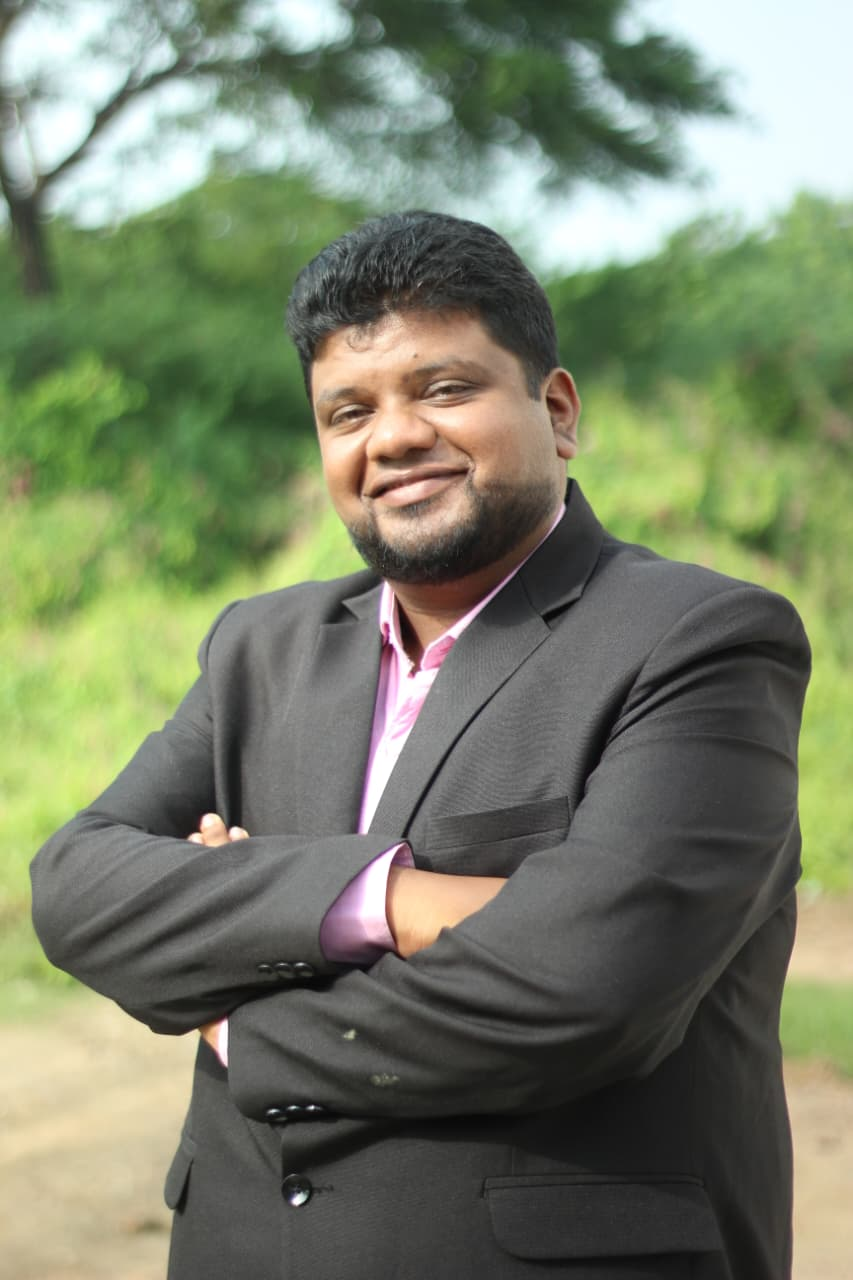
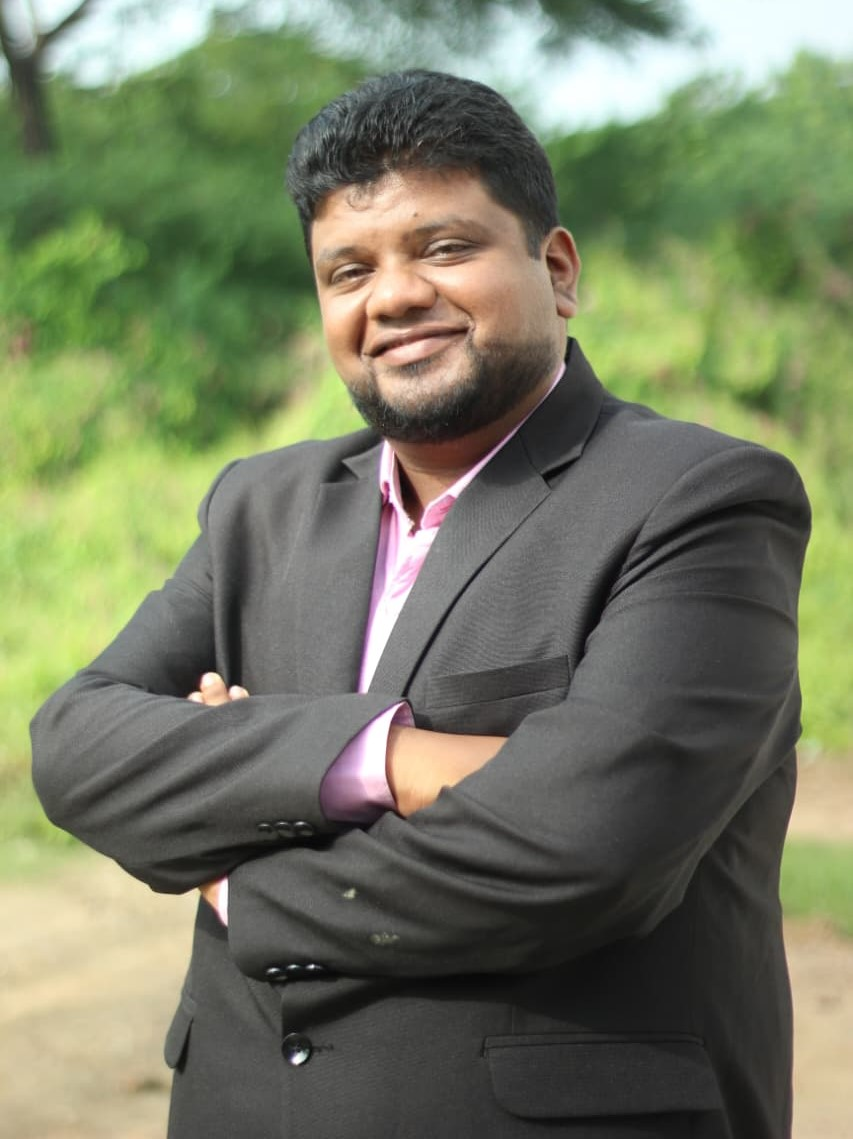
changes

diff --git a/src/pages/About.jsx b/src/pages/About.jsx
@@ -20,7 +20,7 @@ import remali from "../assets/remali.jpg";
 import larsen from "../assets/Larsen.jpg";
 import hycinth from "../assets/hycinth.jpg";
 import jabez from "../assets/jabez.jpg";
-import bhuvi from "../assets/bhuvi.jpg";
+import bhuvi from "../assets/bhuvi.png";
 const About = () => {
   // State for animations
   const [hoveredValue, setHoveredValue] = useState(null);
@@ -156,71 +156,72 @@ const About = () => {
 
   // Team members data
   const teamMembers = [
-  {
-    id: 1,
-    name: "Sam Giftson",
-    title: "Founder & CEO",
-    image: sam,
-    bio: "Former educator with 15 years of experience in teaching and school administration. Leading the vision to transform educational technology.",
-    accent: "emerald",
-  },
-  {
-    id: 2,
-    name: "Shiny Rachel",
-    title: "Operations Head",
-    image: angel,
-    bio: "Operations leader ensuring seamless execution and organizational growth.",
-    accent: "blue",
-  },
-  {
-    id: 3,
-    name: "Remali Sarah",
-    title: "Softskill and Communication Trainer",
-    image: remali,
-    bio: "A Post-Doctoral Research Scholar in English Literature and Communication from Bharathidasan University, with over a decade of expertise in lecturing and training students in English communication and soft skills, significantly shaping the academic and personal growth of hundreds of learners.",
-    accent: "indigo",
-  },
-  {
-    id: 4,
-    name: "Larsen Michael",
-    title: "Head - Training Workshop and Seminars (TWS)",
-    image: larsen,
-    bio: "An experienced professional with over 12 years in education, training, and curriculum development. He specializes in teacher training, student growth, and inclusive practices for diverse learning needs. With strong skills in life skills education, he helps learners build confidence, communication, and problem-solving. He has also led corporate training programs on leadership, career growth, and team building. His expertise connects academic learning with career readiness and workplace success. Through practical strategies and empathy, he empowers teachers, students, and professionals to reach their potential.",
-    accent: "indigo",
-  },
-  {
-    id: 5,
-    name: "Jabez",
-    title: "Head - Media & Design",
-    image: jabez,
-    bio: "A young and passionate creative professional with a Bachelor’s degree in Visual Communication, he has cultivated strong expertise in media and design. As a key pillar of Cultive, he leads the media team with innovation and artistic vision.",
-    accent: "orange",
-  },
-  {
-    id: 6,
-    name: "Titus",
-    title: "IT Head",
-    image: titus,
-    bio: "Titus, a Computer Science Engineer with over five years of professional experience, is a driving force behind Cultive’s technology vision. With his deep expertise in information technology, he leads the IT team with precision, delivering innovative, technology-driven solutions that strengthen the company’s operations and digital presence. His problem-solving skills, strategic approach, and commitment to excellence make him one of the strongest pillars of Cultive, ensuring the organization stays at the forefront of technological advancements.",
-    accent: "cyan",
-  },
-  {
-    id: 7,
-    name: "Bhuvaneshwaran",
-    title: "MAD (Music Art & Dance) Head",
-    image: bhuvi,
-    bio: "An engineering graduate who discovered his true passion in music and pursued it to professional excellence by completing 8 grades in Piano. He has actively contributed to numerous MAD workshops and performances, showcasing both his musical talent and creative engagement. His strong organizational skills, particularly in managing and executing MAD events across India, stand as a key strength that defines his professional journey.",
-    accent: "red",
-  },
-  {
-    id: 8,
-    name: "Hycinth",
-    title: "Communication Dept Head",
-    image: hycinth,
-    bio: "A passionate professional with over 5 years of experience in customer relations and client management in the aviation industry. She is known for her ability to understand client needs, resolve issues with empathy, and build lasting relationships. At Cultive, she serves as a strong pillar in her role as Relationship Manager. Her proactive approach and interpersonal skills help strengthen client trust and partnerships. With her dedication, Hycinth contributes greatly to Cultive’s mission of delivering impactful educational solutions.",
-    accent: "indigo",
-  },
-];
+    {
+      id: 1,
+      name: "Sam Giftson",
+      title: "Founder & Director",
+      image: sam,
+      bio: "An educationist and visionary entrepreneur with over 15 years of experience in the education sector and 4 years of groundbreaking research in child psychology, counseling, and high-tech school systems. Starting his journey as a teacher and school administrator, he quickly advanced into teacher training, curriculum development, and alternative education models that integrate psychology-driven, student-centric approaches with modern technology.His Individualized Education Plans have transformed learning outcomes, delivering measurable success for hundreds of students, while empowering parents and teachers with effective strategies. Drawing from his deep expertise and passion for redefining education, Sam founded Cultive—a next-generation solution provider designed to empower schools, teachers, parents, and students. Cultive stands as the embodiment of his vision: blending research, innovation, and technology to build smarter, future-ready education  ecosystems.",
+      accent: "emerald",
+    },
+    {
+      id: 2,
+      name: "Shiny Rachel",
+      title: "Operations Head",
+      image: angel,
+      bio: "holds an MBA from Anna University and brings over 10 years of expertise in project operations, client management, and customer support within the IT sector. Renowned for her commitment to quality delivery, operational excellence, and team collaboration, she consistently ensures flawless execution and successful outcomes. Today, she stands as a key pillar of strength, leading Cultive’s operations with precision, dedication, and vision.",
+      accent: "blue",
+    },
+    {
+      id: 3,
+      name: "Larsen Michael",
+      title: "Head - Training Workshop and Seminars (TWS)",
+      image: larsen,
+      bio: "An experienced professional with over 12 years in education, training, and curriculum development. He specializes in teacher training, student growth, and inclusive practices for diverse learning needs. With strong skills in life skills education, he helps learners build confidence, communication, and problem-solving. He has also led corporate training programs on leadership, career growth, and team building. His expertise connects academic learning with career readiness and workplace success. Through practical strategies and empathy, he empowers teachers, students, and professionals to reach their potential.",
+      accent: "red",
+    },
+    {
+      id: 4,
+      name: "Remali Sarah",
+      title: "Softskill and Communication Trainer",
+      image: remali,
+      bio: "A Post-Doctoral Research Scholar in English Literature and Communication from Bharathidasan University, with over a decade of expertise in lecturing and training students in English communication and soft skills, significantly shaping the academic and personal growth of hundreds of learners.",
+      accent: "cyan",
+    },
+
+    {
+      id: 5,
+      name: "Jabez",
+      title: "Head - Media & Design",
+      image: jabez,
+      bio: "A young and passionate creative professional with a Bachelor’s degree in Visual Communication, he has cultivated strong expertise in media and design. As a key pillar of Cultive, he leads the media team with innovation and artistic vision.",
+      accent: "orange",
+    },
+    {
+      id: 6,
+      name: "Titus",
+      title: "IT Head",
+      image: titus,
+      bio: "Titus, a Computer Science Engineer with over five years of professional experience, is a driving force behind Cultive’s technology vision. With his deep expertise in information technology, he leads the IT team with precision, delivering innovative, technology-driven solutions that strengthen the company’s operations and digital presence. His problem-solving skills, strategic approach, and commitment to excellence make him one of the strongest pillars of Cultive, ensuring the organization stays at the forefront of technological advancements.",
+      accent: "cyan",
+    },
+    {
+      id: 7,
+      name: "Bhuvaneshwaran",
+      title: "MAD (Music Art & Dance) Head",
+      image: bhuvi,
+      bio: "An engineering graduate who discovered his true passion in music and pursued it to professional excellence by completing 8 grades in Piano. He has actively contributed to numerous MAD workshops and performances, showcasing both his musical talent and creative engagement. His strong organizational skills, particularly in managing and executing MAD events across India, stand as a key strength that defines his professional journey.",
+      accent: "red",
+    },
+    {
+      id: 8,
+      name: "Hycinth Elizabeth",
+      title: "Relationship Manager",
+      image: hycinth,
+      bio: "A passionate professional with over 5 years of experience in customer relations and client management in the aviation industry. She is known for her ability to understand client needs, resolve issues with empathy, and build lasting relationships. At Cultive, she serves as a strong pillar in her role as Relationship Manager. Her proactive approach and interpersonal skills help strengthen client trust and partnerships. With her dedication, Hycinth contributes greatly to Cultive’s mission of delivering impactful educational solutions.",
+      accent: "indigo",
+    },
+  ];
 
   const getAccentClasses = (accent) => {
     const accentMap = {
@@ -275,7 +276,7 @@ const About = () => {
       bgColor: "bg-yellow-50",
     },
   ];
-    const generateStars = () => {
+  const generateStars = () => {
     return Array.from({ length: 50 }, (_, i) => ({
       id: i,
       left: Math.random() * 100,
@@ -603,8 +604,8 @@ const About = () => {
         </div>
       </section>
 
-   {/* Our Core Principles */}
-     {/* Our Core Principles */}
+      {/* Our Core Principles */}
+      {/* Our Core Principles */}
       <section className="py-16 bg-gradient-to-br from-slate-900 via-blue-900 to-indigo-900 relative overflow-hidden">
         {/* Animated Stars Background */}
         <div className="absolute inset-0">
@@ -668,10 +669,12 @@ const About = () => {
                   onMouseLeave={() => setHoveredCard(null)}
                 >
                   {/* Card */}
-                                      <div className="relative bg-gradient-to-br from-slate-800/50 via-blue-900/30 to-indigo-900/50 backdrop-blur-sm border border-blue-400/20 rounded-2xl p-6 transition-all duration-700 hover:scale-105 hover:border-blue-400/50 hover:shadow-2xl hover:shadow-blue-500/20 overflow-hidden animate-slide-up min-h-[320px] flex flex-col">
+                  <div className="relative bg-gradient-to-br from-slate-800/50 via-blue-900/30 to-indigo-900/50 backdrop-blur-sm border border-blue-400/20 rounded-2xl p-6 transition-all duration-700 hover:scale-105 hover:border-blue-400/50 hover:shadow-2xl hover:shadow-blue-500/20 overflow-hidden animate-slide-up min-h-[320px] flex flex-col">
                     {/* Glowing Background Effect */}
                     <div
-                      className={`absolute inset-0 bg-gradient-to-br ${principle.gradient || 'from-blue-500 to-purple-600'} opacity-0 group-hover:opacity-10 transition-all duration-700 rounded-2xl`}
+                      className={`absolute inset-0 bg-gradient-to-br ${
+                        principle.gradient || "from-blue-500 to-purple-600"
+                      } opacity-0 group-hover:opacity-10 transition-all duration-700 rounded-2xl`}
                     ></div>
 
                     {/* Static Border Glow */}
@@ -690,13 +693,17 @@ const About = () => {
                       <div className="relative z-10">
                         <div className="relative inline-block">
                           <div
-                            className={`w-14 h-14 rounded-2xl bg-gradient-to-br ${principle.gradient || 'from-blue-500 to-purple-600'} flex items-center justify-center transform transition-all duration-700 group-hover:rotate-12 group-hover:scale-110 shadow-lg group-hover:shadow-2xl`}
+                            className={`w-14 h-14 rounded-2xl bg-gradient-to-br ${
+                              principle.gradient || "from-blue-500 to-purple-600"
+                            } flex items-center justify-center transform transition-all duration-700 group-hover:rotate-12 group-hover:scale-110 shadow-lg group-hover:shadow-2xl`}
                           >
                             <Icon className="w-7 h-7 text-white" />
                           </div>
                           {/* Icon Glow Effect */}
                           <div
-                            className={`absolute inset-0 w-14 h-14 bg-gradient-to-br ${principle.gradient || 'from-blue-500 to-purple-600'} rounded-2xl blur-xl opacity-0 group-hover:opacity-60 transition-all duration-700`}
+                            className={`absolute inset-0 w-14 h-14 bg-gradient-to-br ${
+                              principle.gradient || "from-blue-500 to-purple-600"
+                            } rounded-2xl blur-xl opacity-0 group-hover:opacity-60 transition-all duration-700`}
                           ></div>
                         </div>
                       </div>
@@ -1029,7 +1036,7 @@ const About = () => {
                     <img
                       src={member.image}
                       alt={member.name}
-                      className="relative w-full h-full object-cover rounded-3xl border-4 border-white shadow-2xl group-hover:scale-105 transition-all duration-700 group-hover:shadow-3xl"
+                      className="relative w-full h-full object-cover object-top rounded-3xl border-4 border-white shadow-2xl group-hover:scale-105 transition-all duration-700 group-hover:shadow-3xl"
                     />
 
                     {/* Subtle overlay gradient */}
@@ -1051,7 +1058,7 @@ const About = () => {
                     {member.title}
                   </div>
 
-                  <p className="text-gray-600 text-sm leading-relaxed group-hover:text-gray-800 transition-colors duration-500">
+                  <p className="text-gray-600 text-sm leading-relaxed text-right group-hover:text-gray-800 transition-colors duration-500">
                     {member.bio}
                   </p>
                 </div>

diff --git a/src/pages/Home.jsx b/src/pages/Home.jsx
@@ -251,8 +251,8 @@ const Home = () => {
       id: 2,
       quote:
         "The unique and well-designed IEP provided by Cultive has given us valuable clarity and insight into our child’s development. We feel privileged to partner with Cultive, whose support has greatly enhanced our understanding and positively impacted our child’s growth.",
-      name: "Remali Sarah",
-      title: "Parent, Housewife, Trichy",
+      name: "Uma Mageshwari",
+      title: "Parent, Chennai",
       role: "Parent",
       rating: 5,
     },
@@ -269,7 +269,7 @@ const Home = () => {
       id: 4,
       quote:
         "Cultive's workshops and seminars provided us with an enriching and enjoyable learning experience. I feel fortunate to have Cultive as part of our school community, and I especially appreciate the opportunity to learn music, dance, art, and craft through their engaging programs.",
-      name: "Annanya",
+      name: "Annanya 12th",
       title: "Student, DMI group of institutions",
       role: "Student",
       rating: 5,
